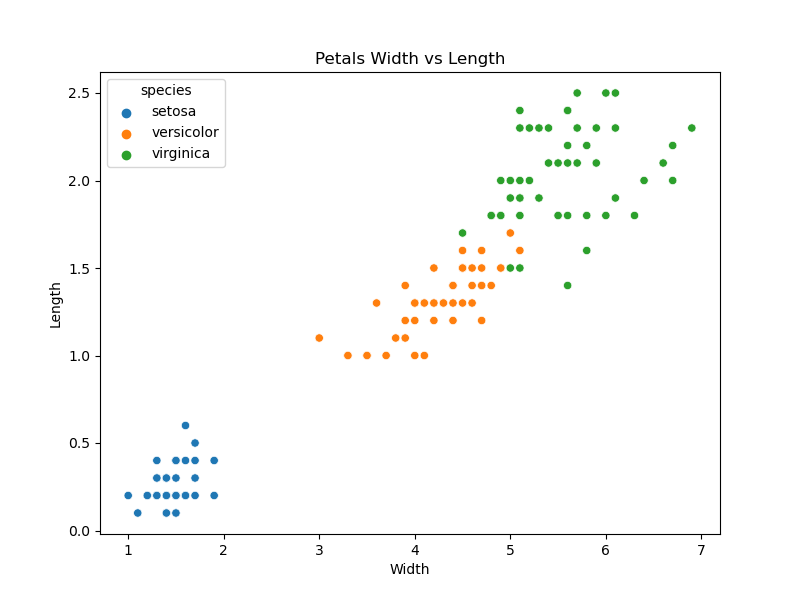
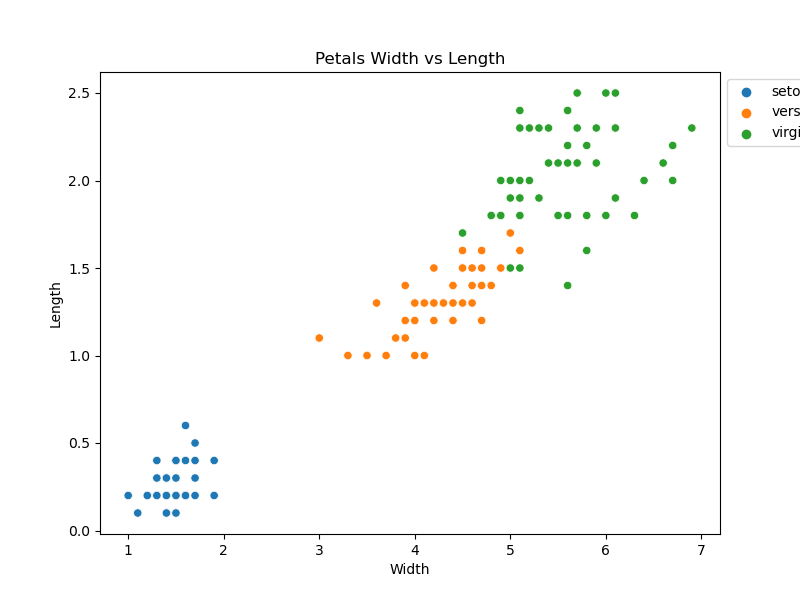
Save visualizations as images

Changed region(s): [[0.125, 0.12, 0.2812, 0.27], [0.9688, 0.12, 1.0, 0.24], [0.9062, 0.12, 0.9375, 0.24]]

diff --git a/analysis1.py b/analysis1.py
@@ -1,0 +1,187 @@
+# Gabriela Domiciano
+
+# Exploratory Analysis: Iris Data_set
+# Import required packages:
+import pandas as pd
+import matplotlib.pyplot as plt
+import numpy as np
+import seaborn as sns
+
+# Let's take a look at the Dataset.
+iris_df = pd.read_csv('iris-data.csv')
+print(iris_df)
+
+# Print the first 10 lines of the DataFrame
+print(iris_df.head(10))
+
+# Calculates descriptive statistics, and saves it to a CSV file called 'summary.csv'
+iris_df.describe().T.to_csv('summary.csv')
+
+# Print the shape, number of rows and columns in the DataFrame.
+print(iris_df.shape)
+
+columns = iris_df.columns
+print(columns)
+
+missing_values = iris_df.isna().any()
+print(missing_values)
+
+# Inspect types.
+type = iris_df.dtypes
+print(type)
+
+# Describing the setosa class
+iris_setosa = iris_df.loc[iris_df["species"]=="setosa"]
+iris_setosa.describe() 
+
+# Describing the versicolor class
+iris_versicolor = iris_df.loc[iris_df["species"]=="versicolor"]
+iris_versicolor.describe() 
+
+ # Describing the virginica class
+iris_virginica = iris_df.loc[iris_df["species"]=="virginica"]
+iris_virginica.describe()
+
+## Number the flower per species.
+plt.plot(iris_df['species'])
+plt.xlabel("lines")
+plt.show()
+
+count = iris_df['species'].value_counts()
+print(count)
+iris_df['species'].value_counts().plot(kind='bar')
+plt.title('Number of Species')
+plt.legend(title='Quantity per Species', labels=count)
+plt.savefig('Quantity per Species')
+plt.show()
+
+# Checking for the unique values.
+iris_df.nunique()
+
+
+sns.pairplot(iris_df,hue="species")
+plt.show()
+
+
+# Plotting the distplot 
+sns.histplot(iris_df['sepal_length'], color='pink') #[1]
+sns.histplot(iris_df["sepal_length"], kde=True, color='blue')
+plt.show()
+
+sns.histplot(iris_df['sepal_width'], color='pink') #[2]
+sns.histplot(iris_df["sepal_width"], kde=True, color='blue')
+plt.show()
+
+sns.histplot(iris_df['petal_length'], color='pink')#[3]
+sns.histplot(iris_df["petal_length"], kde=True, color='blue')
+plt.show()
+
+sns.histplot(iris_df['petal_width'], color='pink') #[4]
+sns.histplot(iris_df["petal_width"], kde=True, color='blue')
+plt.show()
+
+petal_length = iris_df['petal_length']
+print(petal_length)
+
+# Just get the numpy array.
+petal_lengthNP = petal_length.to_numpy()
+print(petal_lengthNP)
+
+# Lets see the petal width.
+petal_width = iris_df['petal_width']
+print(petal_width)
+
+# Petal widths.
+petal_widthNP = iris_df['petal_width'].to_numpy()
+print(petal_widthNP)
+
+# The petal_length per species.
+petal_len = iris_df[['species', 'petal_length']]
+print(petal_len)
+
+# The sepal_length per species.
+sepal_length = iris_df[['species', 'sepal_length']]
+# Show
+print(sepal_length)
+
+
+# Simple plot.
+plt.plot(petal_length, petal_width, 'x', color='green')
+
+# Axis labels.
+plt.xlabel('Petal Length')
+plt.ylabel('Petal Width')
+plt.title('Iris Data')
+plt.xlim(0, 8)
+plt.ylim(0, 4)
+
+# Create a new figure and set of axes.
+fig, ax = plt.subplots()
+ax.plot(petal_length, petal_width, 'x', color='green')
+ax.set_xlabel('Petal Length')
+ax.set_ylabel('Petal Width')
+ax.set_title('Iris Data Set')
+ax.set_xlim(0, 8)
+ax.set_ylim(0, 4)
+
+# Fit a line between x and y.
+m, c = np.polyfit(petal_length, petal_width, 1)
+print(m, c)
+# Show m and c.
+m, c
+
+# Creates a series of values along the line of best fit, generating 100 points spaced between 0.0 and 8.0.
+line_x = np.linspace(0.0, 8.0, 100)
+line_y = m * line_x + c
+
+# Create a new figure and set of axes.
+fig, ax = plt.subplots()
+
+#  plot.
+ax.plot(petal_length, petal_width, 'x', color='green')
+ax.plot(line_x, line_y, 'r-')
+
+ax.set_xlabel('Petal Length')
+ax.set_ylabel('Petal Width')
+ax.set_title('Iris Data')
+ax.set_xlim(0, 8)
+ax.set_ylim(-1, 4)
+
+#  Boxplot 
+sns.boxplot(x='species',y='sepal_length',data=iris_df)
+plt.grid()
+plt.show()
+sns.boxplot(x='species',y='sepal_width',data=iris_df)
+plt.grid()
+plt.show()
+sns.boxplot(x='species',y='petal_width',data=iris_df)
+plt.grid()
+plt.show()
+
+sns.boxplot(x='species',y='petal_length',data=iris_df)
+plt.grid()
+plt.show()
+
+
+# scatter plot 
+plt.figure(figsize=(8,6))
+sns.scatterplot(data = iris_df, x ='petal_length', y ='petal_width', hue ='species')
+plt.title('Petals Width vs Length')
+plt.xlabel('Width')
+plt.ylabel('Length')
+plt.savefig('Petals Width vs Length')
+plt.legend(bbox_to_anchor=(1, 1), loc=2) 
+plt.show()
+
+
+plt.figure(figsize=(8,6))
+sns.scatterplot(data = iris_df, x = 'sepal_length', y = 'petal_width', hue = 'species')
+plt.title('Sepals Width vs Length')
+plt.xlabel('Width')
+plt.ylabel('Length')
+plt.savefig('Sepals Width vs Length')
+plt.show()
+
+
+
+
